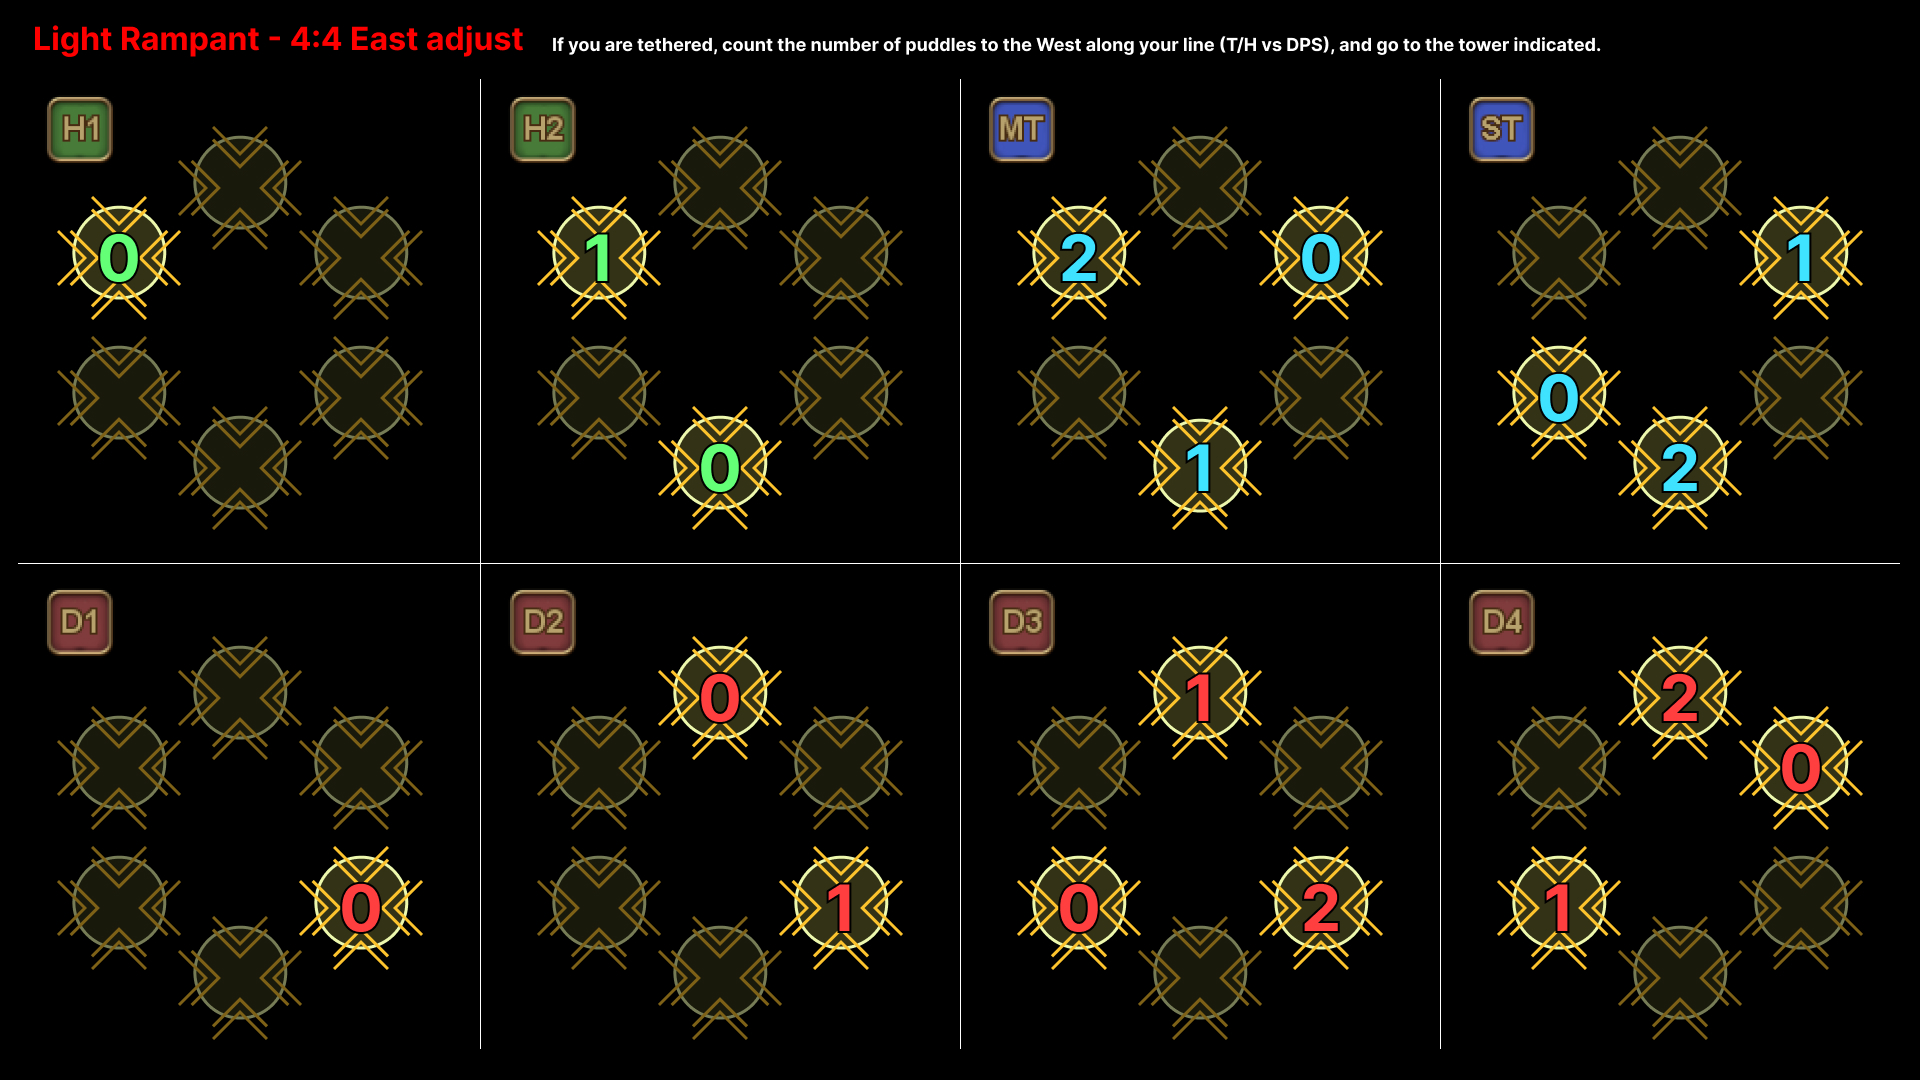
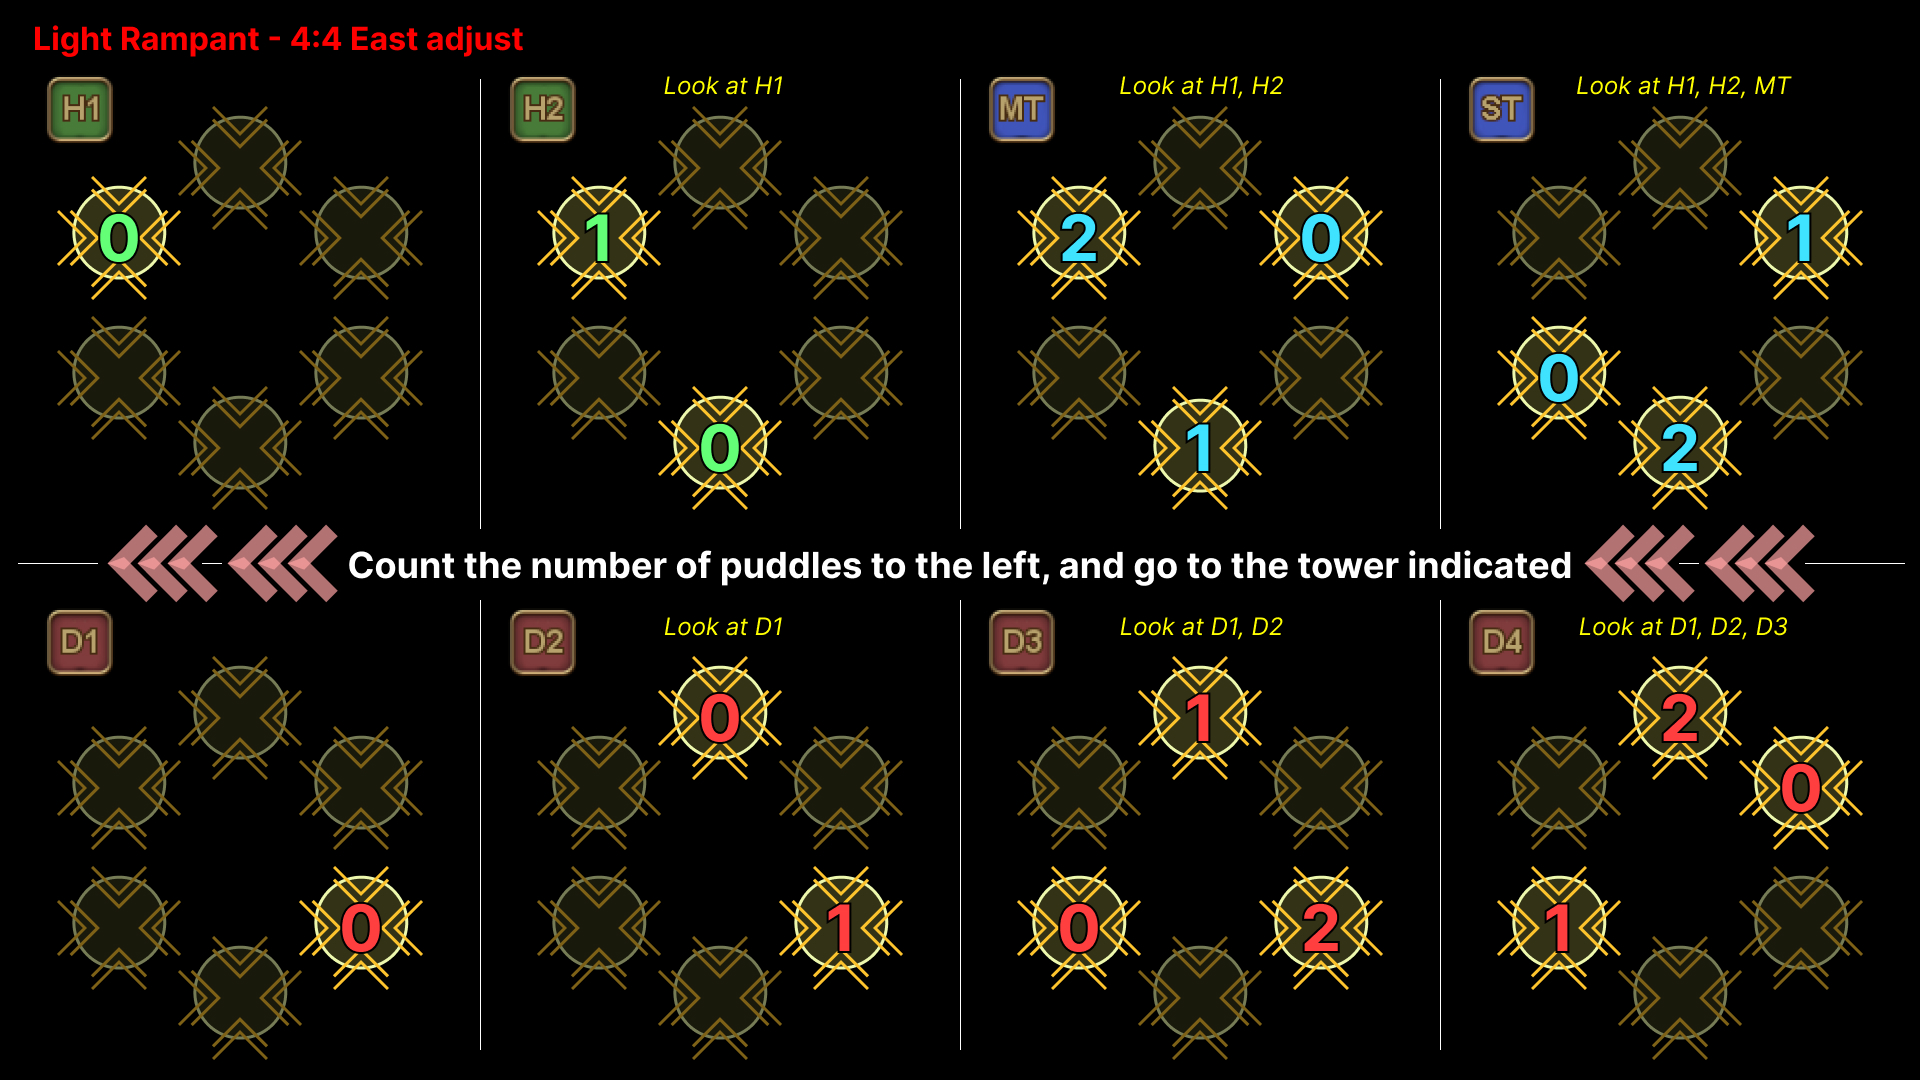
Add ZZZ cheatsheet

Changed region(s): [[0.0, 0.0306, 0.9688, 0.9778]]

diff --git a/_ultimates/fru/02_usurper_of_frost.en.md b/_ultimates/fru/02_usurper_of_frost.en.md
@@ -877,6 +877,9 @@ position from a fixed player (the MT) instead.
     </td>
   </tr>
 </table>
+The tower positions can be summarized as follows:
+<img src="{{site.baseurl}}/images/ultimates/fru/02/light_rampant_mt_ziziezip_cheatsheet.jpg">
+<em>(Full-size image: [<a href="{{site.baseurl}}/images/ultimates/fru/02/light_rampant_mt_ziziezip_cheatsheet.jpg">English</a>])
 </details>
 </div>
 
